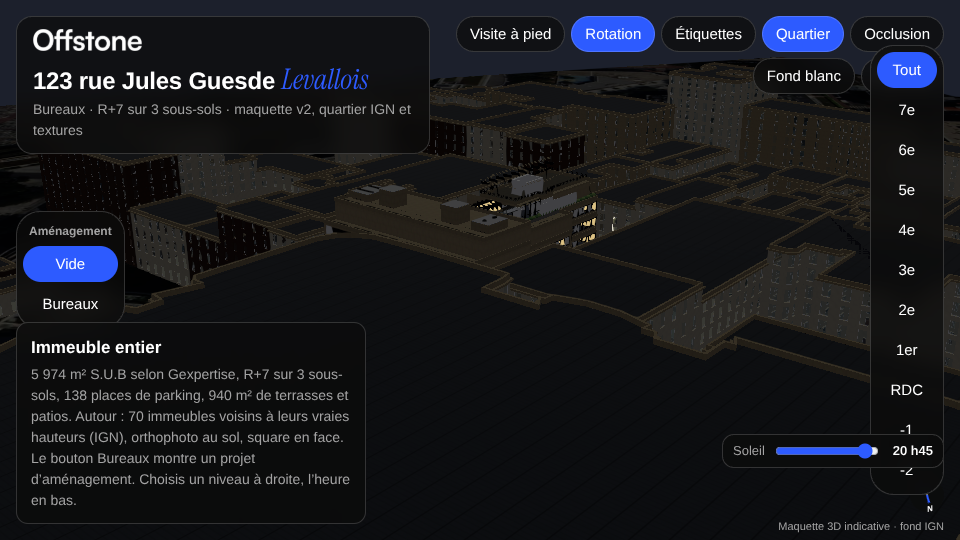
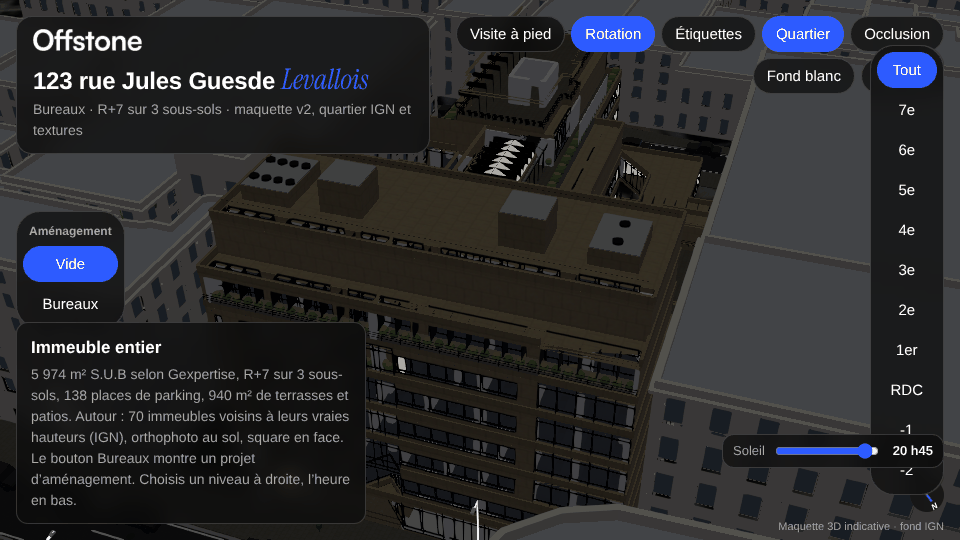
Le 123 Levallois : position des voisins dans le compresseur, normales au chargement, vue de départ
Claude-Session: https://claude.ai/code/session_01WCK8ExmRLA7zJCCuavCwL3

diff --git a/blender/examples/real/123-jules-guesde-levallois/index.html b/blender/examples/real/123-jules-guesde-levallois/index.html
@@ -143,14 +143,14 @@ function apply(){obj.forEach(function(o){var k=o.userData.k,pl=o.userData.pl,v;
     if(o.userData.fp){o.visible=marche;o.userData.up=0;return} if(marche&&o.userData.porte){o.visible=false;o.userData.up=0;return}
     if(o.userData.mob&&!bur){o.visible=false;o.userData.up=0;return}
     if(o.userData.clo&&bur){o.visible=false;o.userData.up=0;return}
-    if(k==='V'){o.visible=vois&&(cur===99||marche)&&!(lite&&o.userData.loin);return}
+    if(k==='V'){o.visible=vois&&(cur===99||marche)&&!(lite&&o.userData.loin)&&!o.userData.dedans;return}
     if(k==='R'){o.visible=cur>=0||cur===99;o.userData.up=0;return}
     if(marche){o.userData.up=0;o.visible=k==='V'||k==='R'||k>=0;return}
     if(cur===99)v=k>=0; else if(cur<0)v=(k<0&&k<=cur); else v=(k>=0&&k<=cur&&!(pl&&k===cur));
     o.userData.up=(cur!==99&&k!=='V'&&((cur>=0&&k>cur)||(cur<0&&k>=0)))?1:0; if(v||o.userData.up)o.visible=true; if(!v&&!o.userData.up)o.visible=false});
   sol.visible=cur>=0||cur===99; sky.visible=cur>=0||cur===99; vie.visible=sol.visible}
 function niveau(k){if(k!==99&&!intOK)interieurs(function(){apply()});if(marche){if(k>=0&&k<=7)aller(k);return}cur=k;apply();pastille();[].forEach.call(document.querySelectorAll('#niveaux button'),function(b){b.setAttribute('aria-pressed',b.dataset.k==k)});fiche();noms();
-  if(k===99)pose(new THREE.Vector3(-88,52,80),new THREE.Vector3(0,9,0));else{ctl.autoRotate=false;document.getElementById('tourne').setAttribute('aria-pressed',false);var h=Z[k];pose(new THREE.Vector3(-58,h+70,62),new THREE.Vector3(0,h,0))}}
+  if(k===99)pose(new THREE.Vector3(-70,62,26),new THREE.Vector3(0,9,0));else{ctl.autoRotate=false;document.getElementById('tourne').setAttribute('aria-pressed',false);var h=Z[k];pose(new THREE.Vector3(-56,h+64,20),new THREE.Vector3(0,h,0))}}
 NIV.forEach(function(n){var b=document.createElement('button');b.textContent=n[0];b.dataset.k=n[1];b.id='n'+String(n[1]).replace('-','m');b.addEventListener('click',function(){niveau(n[1])});document.getElementById('niveaux').appendChild(b)});
 function am(b){bur=b;document.getElementById('am-vide').setAttribute('aria-pressed',!b);document.getElementById('am-bur').setAttribute('aria-pressed',b);apply();if(b&&cur===99)niveau(3)}
 document.getElementById('am-vide').addEventListener('click',function(){am(false)});document.getElementById('am-bur').addEventListener('click',function(){am(true)});
@@ -170,7 +170,7 @@ function matiere(o){var m=o.material,n=m.name||'';
   if(o.userData.k==='V'){o.material=/glass/.test(n)?VOISINV:/zinc/.test(n)?VOISINT:VOISIN;return}if(!mats[n]){m.userData.o={c:m.color.clone(),r:m.roughness,me:m.metalness};mats[n]=m}
   if(n==='Vitre'||n==='Vitre voiture'){o.material=VITRE;o.castShadow=false;return} if(/^Verre/.test(n)){m.transparent=true;m.opacity=.35;m.roughness=.05;m.metalness=0;m.depthWrite=false;m.envMapIntensity=1.2;o.castShadow=false;return}
   var base=n.replace(/\.\d+$/,''),P=PBR[n]||PBR[base]||(/^BB_render/.test(n)?['enduit',0xD9D2C4,.9]:/^BB_(limestone|brick)/.test(n)?['pierre',/brick/.test(n)?0x7A5A4E:0xD9CFBA,.8]:null);
-  if(n==='Orthophoto'){var pa=o.geometry.attributes.position,cx=0,cy=0,cz=0;for(var i=0;i<pa.count;i++){cx+=pa.getX(i);cy+=pa.getY(i);cz+=pa.getZ(i)}cx/=pa.count;cy/=pa.count;cz/=pa.count;for(var i2=0;i2<pa.count;i2++){pa.setXYZ(i2,cx+(pa.getX(i2)-cx)*2,cy+(pa.getY(i2)-cy)*2-.05,cz+(pa.getZ(i2)-cz)*2)}pa.needsUpdate=true;o.geometry.computeBoundingSphere();m.map=TL.load(lite?'ortho_1024.jpg':'ortho.jpg');m.map.colorSpace=THREE.SRGBColorSpace;m.map.anisotropy=lite?2:8;m.color.set(0xBFBFBF);m.roughness=1;m.needsUpdate=true;o.receiveShadow=true;return}
+  if(n==='Orthophoto'){o.updateWorldMatrix(true,false);o.geometry.computeBoundingBox();var bb=o.geometry.boundingBox.clone().applyMatrix4(o.matrixWorld),ce=bb.getCenter(new THREE.Vector3()),gp=new THREE.Group();o.parent.add(gp);gp.position.copy(ce);gp.attach(o);gp.scale.set(2,1,2);gp.position.y-=.05;m.map=TL.load(lite?'ortho_1024.jpg':'ortho.jpg');m.map.colorSpace=THREE.SRGBColorSpace;m.map.anisotropy=lite?2:8;m.color.set(0xBFBFBF);m.roughness=1;m.needsUpdate=true;o.receiveShadow=true;return}
   if(P&&!m.userData.pbr){m.userData.pbr=1;m.map=tex(P[0]+'_albedo',true);m.normalMap=tex(P[0]+'_normal');m.normalScale.set(.7,.7);m.roughnessMap=tex(P[0]+'_rough');m.roughness=P[2];m.color.set(P[1]);m.metalness=n==='Joints zinc'?.5:0;m.needsUpdate=true}
   if(n==='BB_zinc'){m.map=tex('zinc_albedo',true);m.normalMap=tex('zinc_normal');m.normalScale.set(.5,.5);m.color.set(0x8A9099);m.metalness=.25;m.roughness=.55;m.needsUpdate=true} if(/^Carrosserie/.test(n)){m.metalness=.6;m.roughness=.3;m.envMapIntensity=1.3;m.clearcoat=1} if(n==='Lampadaire'||n==='Potelet'){m.roughness=.45;m.metalness=.6}
   if(n==='Ecran allume'){m.emissive.set(0x7F98B0);m.emissiveIntensity=0} m.envMapIntensity=m.envMapIntensity||.9}
@@ -318,21 +318,22 @@ addEventListener('pointerup',function(e){if(glisse&&e.pointerId===glisse.id)glis
 window.__pos=pos;window.__dbg={sun:sun,hemi:hemi,sc:sc,cam:cam,r:r,mats:mats};
 window.__pose=function(k,x,y,yw,pt){if(!marche)visite(true);pos.k=k;cur=k;pos.x=x;pos.y=y;yaw=yw;pitch=pt||0;[].forEach.call(document.querySelectorAll('#niveaux button'),function(b){b.setAttribute('aria-pressed',b.dataset.k==k)});placer()};
 function size(){var w=el.clientWidth,h=el.clientHeight;r.setSize(w,h,false);comp.setSize(w,h);gtao.setSize(w,h);smaa.setSize(w,h);cam.aspect=w/h;cam.fov=marche?(w<h?72:62):(w<h?52:30);cam.updateProjectionMatrix()}
-addEventListener('resize',size);size();cam.position.set(lite?-105:-88,lite?66:52,lite?96:80);ctl.target.set(0,9,0);ctl.update();fiche();pastille();soleil();environnement();synchro();
+addEventListener('resize',size);size();cam.position.set(lite?-82:-70,lite?74:62,lite?30:26);ctl.target.set(0,9,0);ctl.update();fiche();pastille();soleil();environnement();synchro();
 [].forEach.call(document.querySelectorAll('#niveaux button'),function(b){b.setAttribute('aria-pressed',b.dataset.k==99)});
 var loader=new GLTFLoader().setMeshoptDecoder(MeshoptDecoder),intOK=false,intEnCours=false;
 function interieurs(cb){if(intOK){if(cb)cb();return}if(intEnCours)return;intEnCours=true;loader.load('le123_int.gltf.json',function(g2){integrer(g2);intOK=true;window.__ok=obj.length;if(cb)cb()},undefined,function(){intEnCours=false})}
-function integrer(g){g.scene.traverse(function(o){if(!o.isMesh)return;var nm=o.name||(o.parent&&o.parent.name)||'',k=niv(nm);if(k===null)k=niv(o.parent&&o.parent.name||'');if(k===null)return;
+function integrer(g){g.scene.traverse(function(o){if(!o.isMesh)return;if(!o.geometry.attributes.normal){o.geometry.computeVertexNormals();if(o.material.flatShading){o.material.flatShading=false;o.material.needsUpdate=true}}var nm=o.name||(o.parent&&o.parent.name)||'',k=niv(nm);if(k===null)k=niv(o.parent&&o.parent.name||'');if(k===null)return;
     o.userData.k=k;o.userData.pl=/plafond/.test(nm)||/plafond/.test(o.parent&&o.parent.name||'');o.userData.mob=/_mob/.test(nm)||/_mob/.test(o.parent&&o.parent.name||'');o.userData.fp=/_fp/.test(nm);o.userData.porte=/_porte/.test(nm);o.userData.clo=/_clo/.test(nm)||/_clo/.test(o.parent&&o.parent.name||'');o.userData.up=0;o.userData.vitre=(o.material.name==='Vitre');obj.push(o);
-    if(k==='V'){o.geometry.computeBoundingSphere();var cS=o.geometry.boundingSphere.center;o.userData.loin=Math.hypot(cS.x,cS.z)>95}
+    if(k==='V'){o.geometry.computeBoundingSphere();var cS=o.geometry.boundingSphere.center;o.userData.loin=Math.hypot(cS.x,cS.z)>95;o.updateWorldMatrix(true,false);o.geometry.computeBoundingBox();o.userData.bb=o.geometry.boundingBox.clone().applyMatrix4(o.matrixWorld).expandByScalar(1.5)}
     o.castShadow=!(lite&&k==='V');o.receiveShadow=true;o.material.side=THREE.DoubleSide;matiere(o);if(o.userData.vitre)o.castShadow=false});
   sc.add(g.scene);apply();soleil()}
 loader.load('le123_ext.gltf.json',function(g){integrer(g);charge.hidden=true;var h=location.hash.slice(1);if(h){var b=document.getElementById(h);if(b)b.click()}
   window.__ok=obj.length;if(!lite)interieurs();
 },function(ev){chargetxt.textContent=ev.total?Math.round(100*ev.loaded/ev.total)+' % du quartier':Math.round(ev.loaded/1048576)+' Mo reçus'},function(e){panne('Le fichier de la maquette ne se charge pas : '+String(e&&e.message||e).slice(0,160));console.error(e)});
-var tp=0;
-(function loop(n){requestAnimationFrame(loop);n=n||0;if(anim)anim(n);boussole();var dt_=Math.min(.05,(n-(tp||n))/1000);tp=n;if(ANI&&sol.visible){VT.value+=dt_;trafic(dt_)}
+var tp=0,nf=0;
+function dedans(){var ch=false;obj.forEach(function(o){if(o.userData.k!=='V'||!o.userData.bb)return;var d=o.userData.bb.containsPoint(cam.position);if(d!==!!o.userData.dedans){o.userData.dedans=d;ch=true}});if(ch)apply()}
+(function loop(n){requestAnimationFrame(loop);n=n||0;if(anim)anim(n);if(++nf%12===0)dedans();boussole();var dt_=Math.min(.05,(n-(tp||n))/1000);tp=n;if(ANI&&sol.visible){VT.value+=dt_;trafic(dt_)}
   obj.forEach(function(o){var b=o.userData.y0;if(b===undefined)b=o.userData.y0=o.position.y;var t=b+(o.userData.up?80:0);if(Math.abs(o.position.y-t)>.05){o.position.y+=(t-o.position.y)*(calme?1:.12);if(o.userData.up&&o.position.y-b>75)o.visible=false}else o.position.y=t});
   if(marche){avance(dt_);carteDessine()}else ctl.update();if(direct)r.render(sc,cam);else{try{comp.render()}catch(e){direct=true;AO=false;gtao.enabled=false;console.warn('post-traitement désactivé',e);r.render(sc,cam)}}
-  if(!window.__ok||diagFait)return;if(!tDiag)tDiag=n;if(n-tDiag>9000){diagFait=true;if(r.info.render.triangles<1000){panne('Le navigateur ne dessine rien ('+r.info.render.triangles+' triangles). Essaie un autre navigateur ou active l’accélération matérielle.')}}})();
+  if(!window.__ok||diagFait)return;if(!tDiag)tDiag=n;if(n-tDiag>9000){diagFait=true;var nv=obj.filter(function(o){return o.visible}).length;if(nv<5){panne('Le navigateur n’affiche aucun objet ('+nv+'). Essaie un autre navigateur ou active l’accélération matérielle.')}}})();
 </script>

diff --git a/blender/examples/real/123-jules-guesde-levallois/scripts/index.template.html b/blender/examples/real/123-jules-guesde-levallois/scripts/index.template.html
@@ -143,14 +143,14 @@ function apply(){obj.forEach(function(o){var k=o.userData.k,pl=o.userData.pl,v;
     if(o.userData.fp){o.visible=marche;o.userData.up=0;return} if(marche&&o.userData.porte){o.visible=false;o.userData.up=0;return}
     if(o.userData.mob&&!bur){o.visible=false;o.userData.up=0;return}
     if(o.userData.clo&&bur){o.visible=false;o.userData.up=0;return}
-    if(k==='V'){o.visible=vois&&(cur===99||marche)&&!(lite&&o.userData.loin);return}
+    if(k==='V'){o.visible=vois&&(cur===99||marche)&&!(lite&&o.userData.loin)&&!o.userData.dedans;return}
     if(k==='R'){o.visible=cur>=0||cur===99;o.userData.up=0;return}
     if(marche){o.userData.up=0;o.visible=k==='V'||k==='R'||k>=0;return}
     if(cur===99)v=k>=0; else if(cur<0)v=(k<0&&k<=cur); else v=(k>=0&&k<=cur&&!(pl&&k===cur));
     o.userData.up=(cur!==99&&k!=='V'&&((cur>=0&&k>cur)||(cur<0&&k>=0)))?1:0; if(v||o.userData.up)o.visible=true; if(!v&&!o.userData.up)o.visible=false});
   sol.visible=cur>=0||cur===99; sky.visible=cur>=0||cur===99; vie.visible=sol.visible}
 function niveau(k){if(k!==99&&!intOK)interieurs(function(){apply()});if(marche){if(k>=0&&k<=7)aller(k);return}cur=k;apply();pastille();[].forEach.call(document.querySelectorAll('#niveaux button'),function(b){b.setAttribute('aria-pressed',b.dataset.k==k)});fiche();noms();
-  if(k===99)pose(new THREE.Vector3(-88,52,80),new THREE.Vector3(0,9,0));else{ctl.autoRotate=false;document.getElementById('tourne').setAttribute('aria-pressed',false);var h=Z[k];pose(new THREE.Vector3(-58,h+70,62),new THREE.Vector3(0,h,0))}}
+  if(k===99)pose(new THREE.Vector3(-70,62,26),new THREE.Vector3(0,9,0));else{ctl.autoRotate=false;document.getElementById('tourne').setAttribute('aria-pressed',false);var h=Z[k];pose(new THREE.Vector3(-56,h+64,20),new THREE.Vector3(0,h,0))}}
 NIV.forEach(function(n){var b=document.createElement('button');b.textContent=n[0];b.dataset.k=n[1];b.id='n'+String(n[1]).replace('-','m');b.addEventListener('click',function(){niveau(n[1])});document.getElementById('niveaux').appendChild(b)});
 function am(b){bur=b;document.getElementById('am-vide').setAttribute('aria-pressed',!b);document.getElementById('am-bur').setAttribute('aria-pressed',b);apply();if(b&&cur===99)niveau(3)}
 document.getElementById('am-vide').addEventListener('click',function(){am(false)});document.getElementById('am-bur').addEventListener('click',function(){am(true)});
@@ -170,7 +170,7 @@ function matiere(o){var m=o.material,n=m.name||'';
   if(o.userData.k==='V'){o.material=/glass/.test(n)?VOISINV:/zinc/.test(n)?VOISINT:VOISIN;return}if(!mats[n]){m.userData.o={c:m.color.clone(),r:m.roughness,me:m.metalness};mats[n]=m}
   if(n==='Vitre'||n==='Vitre voiture'){o.material=VITRE;o.castShadow=false;return} if(/^Verre/.test(n)){m.transparent=true;m.opacity=.35;m.roughness=.05;m.metalness=0;m.depthWrite=false;m.envMapIntensity=1.2;o.castShadow=false;return}
   var base=n.replace(/\.\d+$/,''),P=PBR[n]||PBR[base]||(/^BB_render/.test(n)?['enduit',0xD9D2C4,.9]:/^BB_(limestone|brick)/.test(n)?['pierre',/brick/.test(n)?0x7A5A4E:0xD9CFBA,.8]:null);
-  if(n==='Orthophoto'){var pa=o.geometry.attributes.position,cx=0,cy=0,cz=0;for(var i=0;i<pa.count;i++){cx+=pa.getX(i);cy+=pa.getY(i);cz+=pa.getZ(i)}cx/=pa.count;cy/=pa.count;cz/=pa.count;for(var i2=0;i2<pa.count;i2++){pa.setXYZ(i2,cx+(pa.getX(i2)-cx)*2,cy+(pa.getY(i2)-cy)*2-.05,cz+(pa.getZ(i2)-cz)*2)}pa.needsUpdate=true;o.geometry.computeBoundingSphere();m.map=TL.load(lite?'ortho_1024.jpg':'ortho.jpg');m.map.colorSpace=THREE.SRGBColorSpace;m.map.anisotropy=lite?2:8;m.color.set(0xBFBFBF);m.roughness=1;m.needsUpdate=true;o.receiveShadow=true;return}
+  if(n==='Orthophoto'){o.updateWorldMatrix(true,false);o.geometry.computeBoundingBox();var bb=o.geometry.boundingBox.clone().applyMatrix4(o.matrixWorld),ce=bb.getCenter(new THREE.Vector3()),gp=new THREE.Group();o.parent.add(gp);gp.position.copy(ce);gp.attach(o);gp.scale.set(2,1,2);gp.position.y-=.05;m.map=TL.load(lite?'ortho_1024.jpg':'ortho.jpg');m.map.colorSpace=THREE.SRGBColorSpace;m.map.anisotropy=lite?2:8;m.color.set(0xBFBFBF);m.roughness=1;m.needsUpdate=true;o.receiveShadow=true;return}
   if(P&&!m.userData.pbr){m.userData.pbr=1;m.map=tex(P[0]+'_albedo',true);m.normalMap=tex(P[0]+'_normal');m.normalScale.set(.7,.7);m.roughnessMap=tex(P[0]+'_rough');m.roughness=P[2];m.color.set(P[1]);m.metalness=n==='Joints zinc'?.5:0;m.needsUpdate=true}
   if(n==='BB_zinc'){m.map=tex('zinc_albedo',true);m.normalMap=tex('zinc_normal');m.normalScale.set(.5,.5);m.color.set(0x8A9099);m.metalness=.25;m.roughness=.55;m.needsUpdate=true} if(/^Carrosserie/.test(n)){m.metalness=.6;m.roughness=.3;m.envMapIntensity=1.3;m.clearcoat=1} if(n==='Lampadaire'||n==='Potelet'){m.roughness=.45;m.metalness=.6}
   if(n==='Ecran allume'){m.emissive.set(0x7F98B0);m.emissiveIntensity=0} m.envMapIntensity=m.envMapIntensity||.9}
@@ -318,21 +318,22 @@ addEventListener('pointerup',function(e){if(glisse&&e.pointerId===glisse.id)glis
 window.__pos=pos;window.__dbg={sun:sun,hemi:hemi,sc:sc,cam:cam,r:r,mats:mats};
 window.__pose=function(k,x,y,yw,pt){if(!marche)visite(true);pos.k=k;cur=k;pos.x=x;pos.y=y;yaw=yw;pitch=pt||0;[].forEach.call(document.querySelectorAll('#niveaux button'),function(b){b.setAttribute('aria-pressed',b.dataset.k==k)});placer()};
 function size(){var w=el.clientWidth,h=el.clientHeight;r.setSize(w,h,false);comp.setSize(w,h);gtao.setSize(w,h);smaa.setSize(w,h);cam.aspect=w/h;cam.fov=marche?(w<h?72:62):(w<h?52:30);cam.updateProjectionMatrix()}
-addEventListener('resize',size);size();cam.position.set(lite?-105:-88,lite?66:52,lite?96:80);ctl.target.set(0,9,0);ctl.update();fiche();pastille();soleil();environnement();synchro();
+addEventListener('resize',size);size();cam.position.set(lite?-82:-70,lite?74:62,lite?30:26);ctl.target.set(0,9,0);ctl.update();fiche();pastille();soleil();environnement();synchro();
 [].forEach.call(document.querySelectorAll('#niveaux button'),function(b){b.setAttribute('aria-pressed',b.dataset.k==99)});
 var loader=new GLTFLoader().setMeshoptDecoder(MeshoptDecoder),intOK=false,intEnCours=false;
 function interieurs(cb){if(intOK){if(cb)cb();return}if(intEnCours)return;intEnCours=true;loader.load('le123_int.gltf.json',function(g2){integrer(g2);intOK=true;window.__ok=obj.length;if(cb)cb()},undefined,function(){intEnCours=false})}
-function integrer(g){g.scene.traverse(function(o){if(!o.isMesh)return;var nm=o.name||(o.parent&&o.parent.name)||'',k=niv(nm);if(k===null)k=niv(o.parent&&o.parent.name||'');if(k===null)return;
+function integrer(g){g.scene.traverse(function(o){if(!o.isMesh)return;if(!o.geometry.attributes.normal){o.geometry.computeVertexNormals();if(o.material.flatShading){o.material.flatShading=false;o.material.needsUpdate=true}}var nm=o.name||(o.parent&&o.parent.name)||'',k=niv(nm);if(k===null)k=niv(o.parent&&o.parent.name||'');if(k===null)return;
     o.userData.k=k;o.userData.pl=/plafond/.test(nm)||/plafond/.test(o.parent&&o.parent.name||'');o.userData.mob=/_mob/.test(nm)||/_mob/.test(o.parent&&o.parent.name||'');o.userData.fp=/_fp/.test(nm);o.userData.porte=/_porte/.test(nm);o.userData.clo=/_clo/.test(nm)||/_clo/.test(o.parent&&o.parent.name||'');o.userData.up=0;o.userData.vitre=(o.material.name==='Vitre');obj.push(o);
-    if(k==='V'){o.geometry.computeBoundingSphere();var cS=o.geometry.boundingSphere.center;o.userData.loin=Math.hypot(cS.x,cS.z)>95}
+    if(k==='V'){o.geometry.computeBoundingSphere();var cS=o.geometry.boundingSphere.center;o.userData.loin=Math.hypot(cS.x,cS.z)>95;o.updateWorldMatrix(true,false);o.geometry.computeBoundingBox();o.userData.bb=o.geometry.boundingBox.clone().applyMatrix4(o.matrixWorld).expandByScalar(1.5)}
     o.castShadow=!(lite&&k==='V');o.receiveShadow=true;o.material.side=THREE.DoubleSide;matiere(o);if(o.userData.vitre)o.castShadow=false});
   sc.add(g.scene);apply();soleil()}
 loader.load('le123_ext.gltf.json',function(g){integrer(g);charge.hidden=true;var h=location.hash.slice(1);if(h){var b=document.getElementById(h);if(b)b.click()}
   window.__ok=obj.length;if(!lite)interieurs();
 },function(ev){chargetxt.textContent=ev.total?Math.round(100*ev.loaded/ev.total)+' % du quartier':Math.round(ev.loaded/1048576)+' Mo reçus'},function(e){panne('Le fichier de la maquette ne se charge pas : '+String(e&&e.message||e).slice(0,160));console.error(e)});
-var tp=0;
-(function loop(n){requestAnimationFrame(loop);n=n||0;if(anim)anim(n);boussole();var dt_=Math.min(.05,(n-(tp||n))/1000);tp=n;if(ANI&&sol.visible){VT.value+=dt_;trafic(dt_)}
+var tp=0,nf=0;
+function dedans(){var ch=false;obj.forEach(function(o){if(o.userData.k!=='V'||!o.userData.bb)return;var d=o.userData.bb.containsPoint(cam.position);if(d!==!!o.userData.dedans){o.userData.dedans=d;ch=true}});if(ch)apply()}
+(function loop(n){requestAnimationFrame(loop);n=n||0;if(anim)anim(n);if(++nf%12===0)dedans();boussole();var dt_=Math.min(.05,(n-(tp||n))/1000);tp=n;if(ANI&&sol.visible){VT.value+=dt_;trafic(dt_)}
   obj.forEach(function(o){var b=o.userData.y0;if(b===undefined)b=o.userData.y0=o.position.y;var t=b+(o.userData.up?80:0);if(Math.abs(o.position.y-t)>.05){o.position.y+=(t-o.position.y)*(calme?1:.12);if(o.userData.up&&o.position.y-b>75)o.visible=false}else o.position.y=t});
   if(marche){avance(dt_);carteDessine()}else ctl.update();if(direct)r.render(sc,cam);else{try{comp.render()}catch(e){direct=true;AO=false;gtao.enabled=false;console.warn('post-traitement désactivé',e);r.render(sc,cam)}}
-  if(!window.__ok||diagFait)return;if(!tDiag)tDiag=n;if(n-tDiag>9000){diagFait=true;if(r.info.render.triangles<1000){panne('Le navigateur ne dessine rien ('+r.info.render.triangles+' triangles). Essaie un autre navigateur ou active l’accélération matérielle.')}}})();
+  if(!window.__ok||diagFait)return;if(!tDiag)tDiag=n;if(n-tDiag>9000){diagFait=true;var nv=obj.filter(function(o){return o.visible}).length;if(nv<5){panne('Le navigateur n’affiche aucun objet ('+nv+'). Essaie un autre navigateur ou active l’accélération matérielle.')}}})();
 </script>

diff --git a/blender/examples/real/123-jules-guesde-levallois/scripts/meshopt_pack.py b/blender/examples/real/123-jules-guesde-levallois/scripts/meshopt_pack.py
@@ -38,7 +38,10 @@ def pack(src, dst):
         poss=[read(p['attributes']['POSITION']) for p in mesh['primitives']]
         allp=np.concatenate(poss); mn=allp.min(0); mx=allp.max(0); ext=np.maximum(mx-mn,1e-6)
         for ni in mesh_nodes.get(mi,[]):
-            nd=g['nodes'][ni]; nd['translation']=[float(x) for x in mn]; nd['scale']=[float(x/65535.0) for x in ext]
+            nd=g['nodes'][ni]
+            assert 'rotation' not in nd and 'matrix' not in nd and nd.get('scale',[1,1,1])==[1,1,1], f'nœud {ni} : transformation non gérée'
+            t0=nd.get('translation',[0,0,0])
+            nd['translation']=[float(t0[i]+mn[i]) for i in range(3)]; nd['scale']=[float(x/65535.0) for x in ext]
         for p,pos in zip(mesh['primitives'],poss):
             q=np.rint((pos-mn)/ext*65535.0).astype(np.uint16); n=q.shape[0]
             qp=np.zeros((n,4),dtype=np.uint16); qp[:,:3]=q
